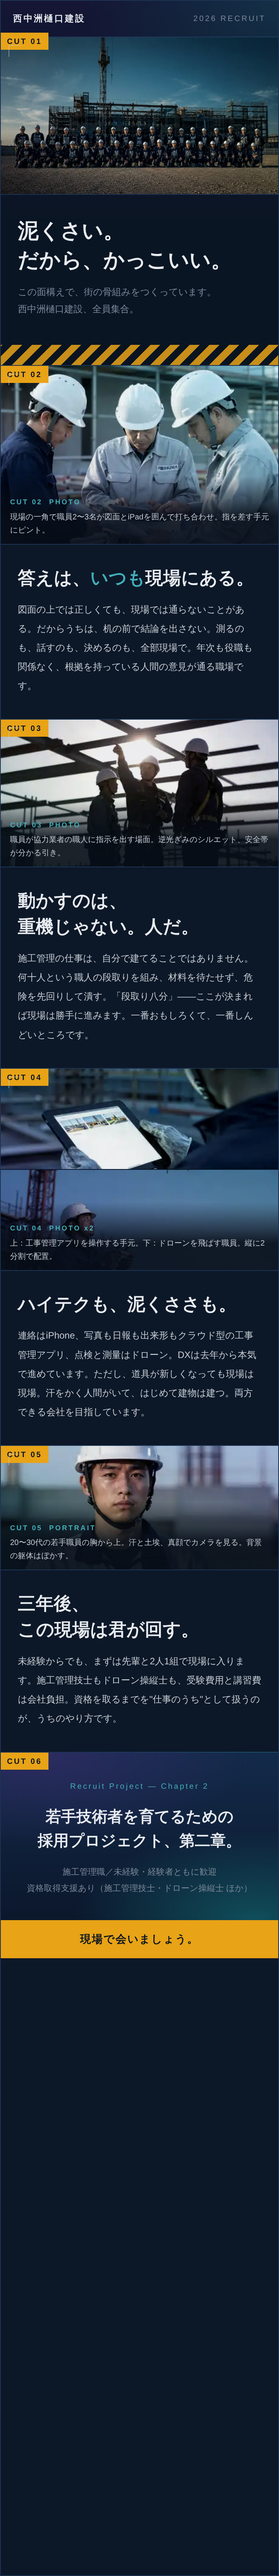
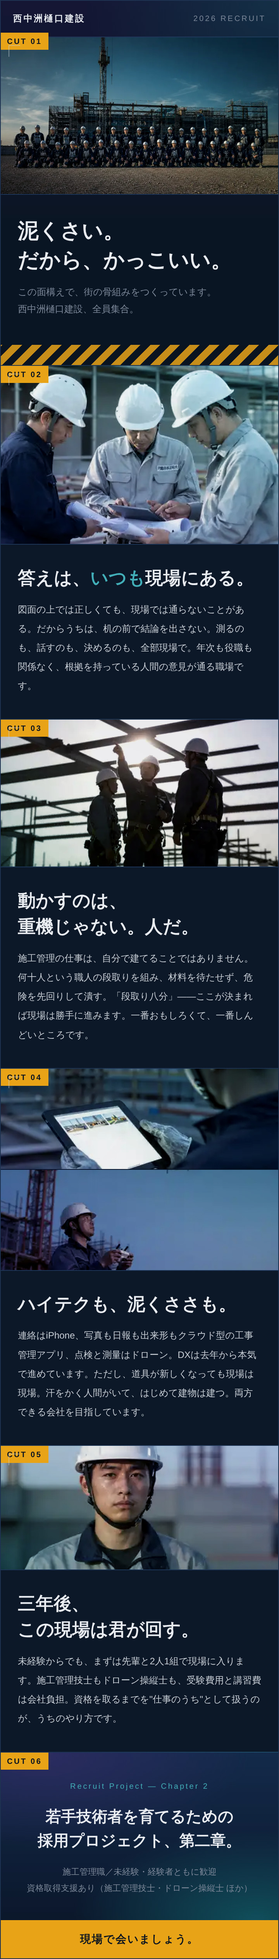
写真に重ねていた撮影メモの帯を削除
完成イメージ内の各写真に重ねていたラベルと説明文を全カットで非表示に
した。撮影時の指示は下段の「撮影カット指示」に残っているため情報は
失われない。書き出しJPEGも作り直し、末尾の余白を詰めた。

Claude-Session: https://claude.ai/code/session_01EZnD2onnpFgsZQ2V4mBejo

diff --git a/design/nishinakasu-higuchi-recruit-v2.html b/design/nishinakasu-higuchi-recruit-v2.html
@@ -128,16 +128,7 @@
     display:block;width:100%;height:100%;object-fit:cover;
     filter:saturate(.78) contrast(1.08) brightness(.94);
   }
-  .shot .cap{
-    position:absolute;left:0;right:0;bottom:0;z-index:2;
-    padding:26px 12px 9px;
-    font-size:10px;line-height:1.7;color:var(--silver);
-    background:linear-gradient(180deg,rgba(7,14,24,0) 0%,rgba(7,14,24,.9) 60%);
-  }
-  .shot .cap b{
-    display:block;font-family:"Oswald",sans-serif;font-weight:600;
-    font-size:9px;letter-spacing:.2em;color:var(--cyan);margin-bottom:3px;
-  }
+  .shot .cap{display:none;}
   .shot::before{
     content:"";position:absolute;top:10px;left:10px;width:14px;height:14px;z-index:3;
     border:1px solid rgba(199,206,214,.5);border-right:0;border-bottom:0;
@@ -156,7 +147,6 @@
   .cut:nth-of-type(5) .shot{--tint-a:var(--iris);--tint-b:var(--teal);}
   .h-hero{height:auto;}
   .h-hero > img{height:auto;filter:saturate(.9) contrast(1.05) brightness(.94);}
-  .h-hero .cap{display:none;}
   .h-hero::after{opacity:.5;}
   .h-tall{height:230px;}
   .h-mid{height:190px;}
